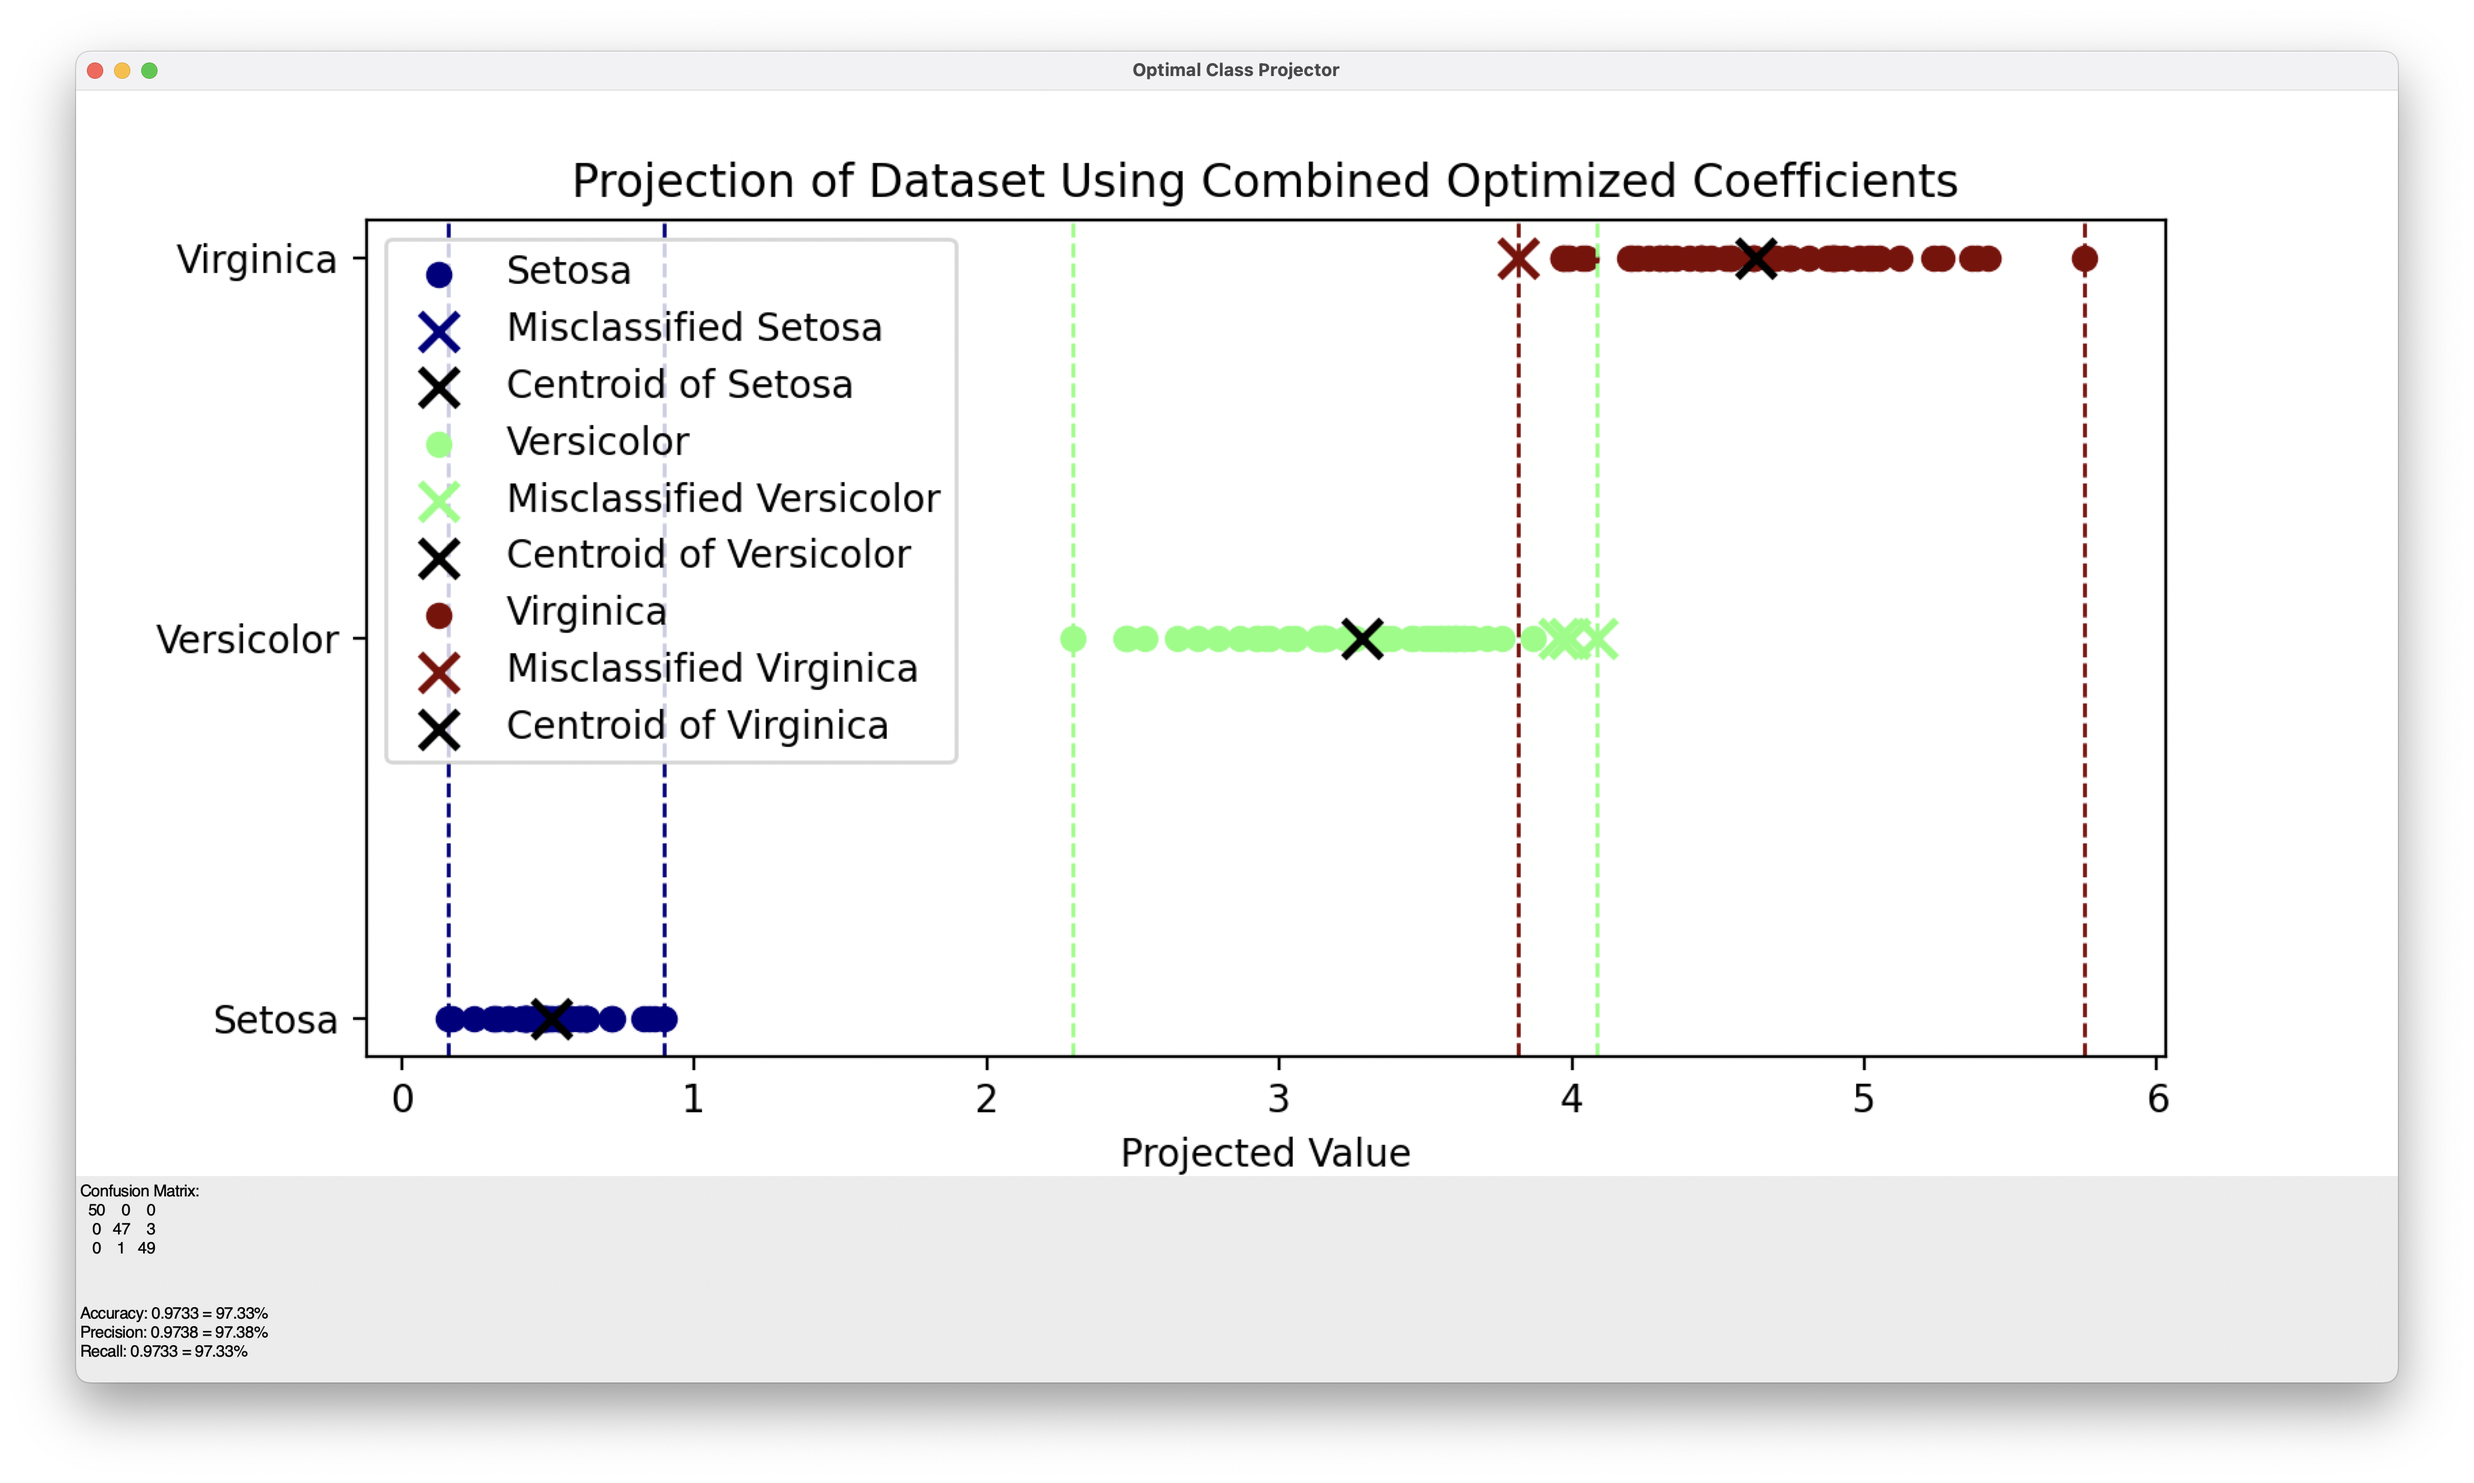
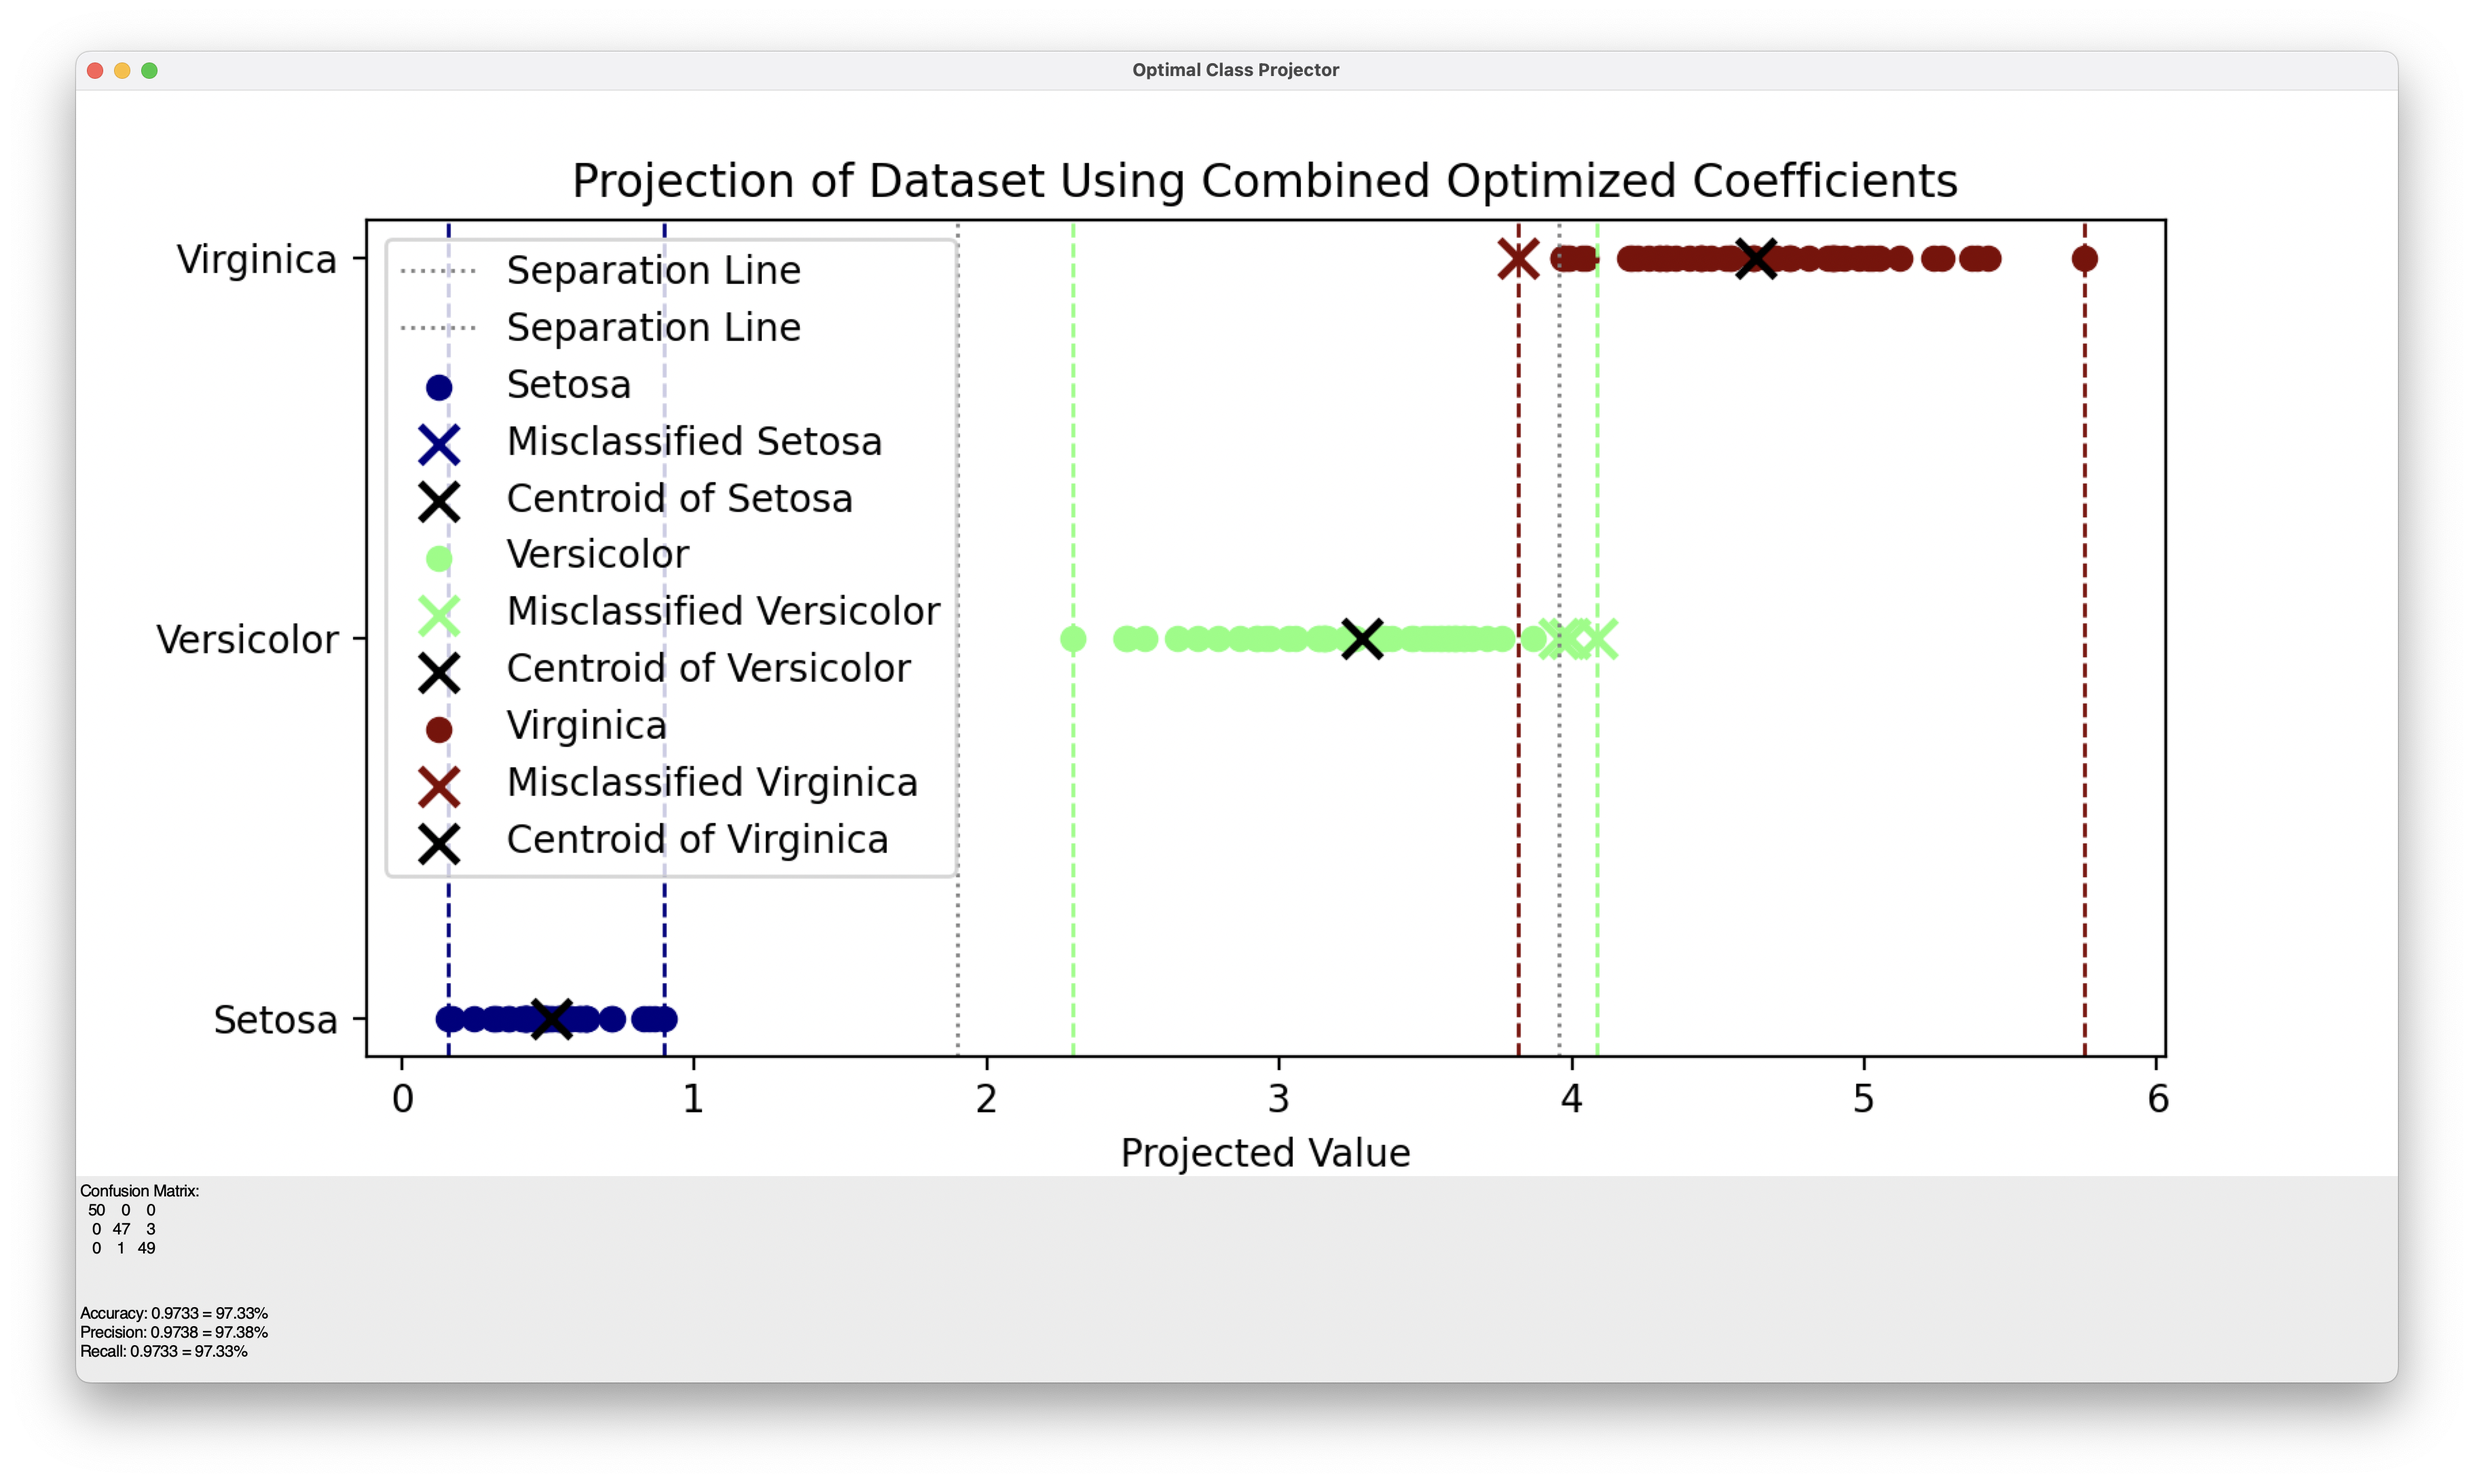
Prune separation boundaries to n-1 where n is class count

Changed region(s): [[0.155, 0.1557, 0.3721, 0.5916]]

diff --git a/demo.py b/demo.py
@@ -74,12 +74,13 @@ def project_and_plot_tkinter(X, y, W_optimal, class_names, root):
     colors = plt.cm.jet(np.linspace(0, 1, len(unique_classes)))
 
     centroids = np.array([XW[y == i].mean() for i in unique_classes])
+    sorted_indices = np.argsort(centroids)  # Sort centroids
+    sorted_centroids = centroids[sorted_indices]
 
-    # Draw separation lines between each pair of centroids
-    for i in range(len(centroids)):
-        for j in range(i + 1, len(centroids)):
-            midpoint = (centroids[i] + centroids[j]) / 2
-            ax.axvline(x=midpoint, color='gray', linestyle=':', linewidth=1, label='Separation Line')
+    # Draw separation lines between nearest centroids (n-1 lines)
+    for i in range(len(sorted_centroids) - 1):
+        midpoint = (sorted_centroids[i] + sorted_centroids[i + 1]) / 2
+        ax.axvline(x=midpoint, color='gray', linestyle=':', linewidth=1, label='Separation Line')
 
     # Predictions and identification of misclassified points
     predictions = np.array([unique_classes[np.argmin(np.abs(x - centroids))] for x in XW])
